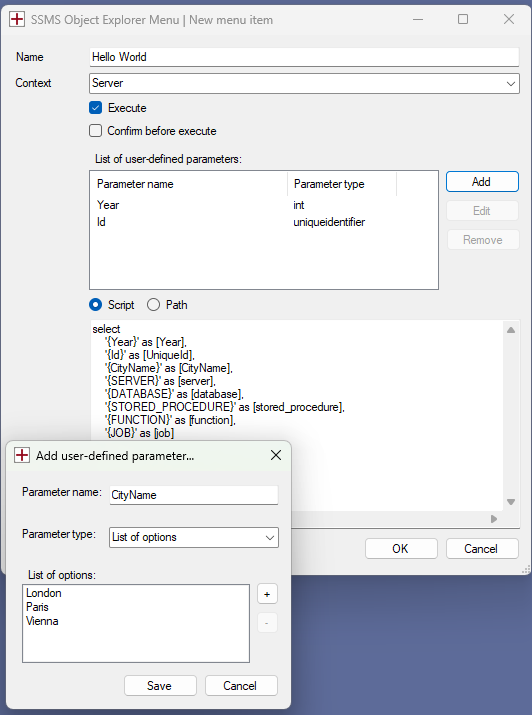
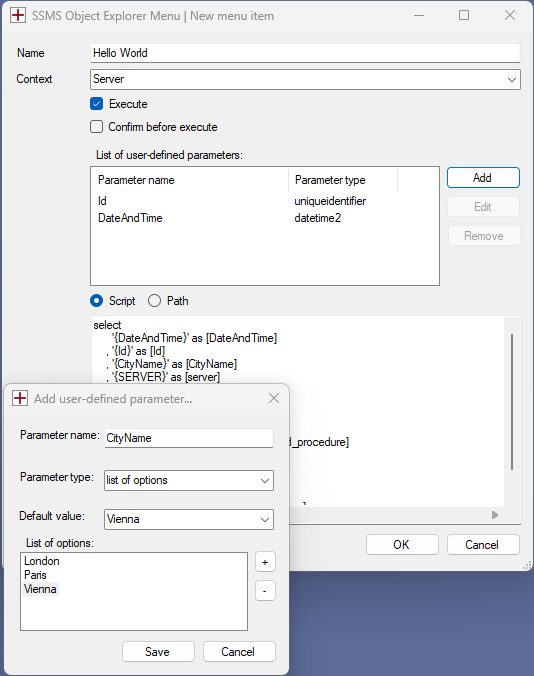
Updating README.

diff --git a/README.md b/README.md
@@ -102,9 +102,12 @@ A custom parameter can have one of the below types:
 * int
 * nvarchar
 * bit
-* List of options
+* datetime2
+* datetimeoffset
+* list of options
 
-The list of options can't have duplicate elements.
+The `list of options` can't have duplicate elements. 
+You can provide any string as a `datetime2` or `datetimeoffset` argument which can be parsed to the .NET types `DateTime` and `DateTimeOffset`.
 
 These user-defined parameters are substituted the same way like the tags of the execution context.
 
